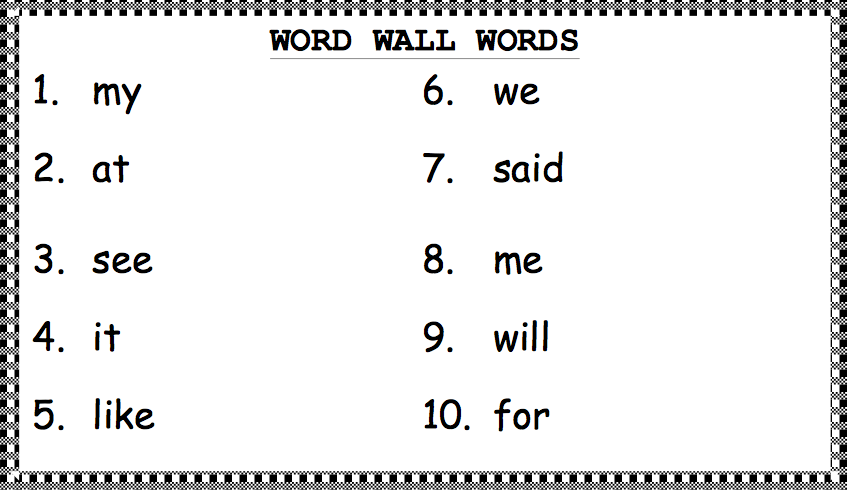
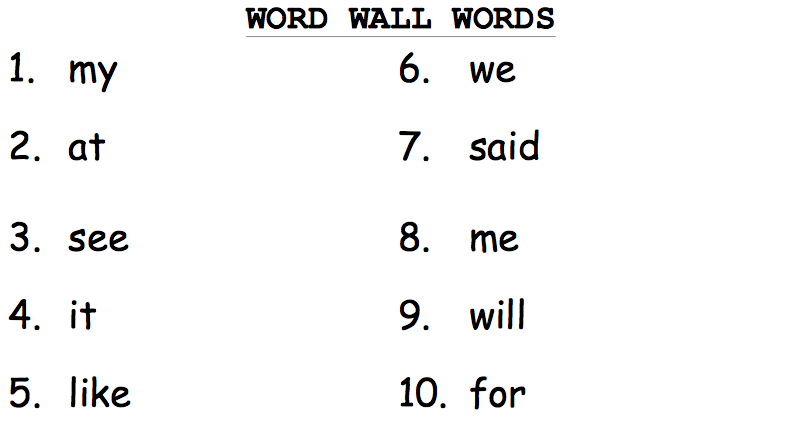
added images

diff --git a/Lucas.html b/Lucas.html
@@ -16,21 +16,17 @@
   <nav class="navbar navbar-inverse">
   <div class="container-fluid">
     <div class="navbar-header">
-      <a class="navbar-brand" href="#">WebSiteName</a>
+      <!-- <a class="navbar-brand" href="#">WebSiteName</a> -->
     </div>
     <div>
       <ul class="nav navbar-nav">
-        <li class="active"><a href="#">Home</a></li>
         <li class="dropdown">
-          <a class="dropdown-toggle" data-toggle="dropdown" href="">Grade One Gazette
-          <span class="caret"></span></a>
-          <ul class="dropdown-menu">
-            <li><a href="Newsletters/Newsletter-2.pdf">August 10 - 14</a></li>
-            <li><a href="Newsletters/Newsletter#1.pdf">August 3 - 7</a></li> 
-          </ul>
+          <a class="dropdown-toggle" data-toggle="dropdown" href="Newsletters/Newsletter-2.pdf">Grade One Gazette</a>
         </li>
         <li><a href="about.html">Class Party Information</a></li> 
-        <li><a href="http://greenville.nafcs.k12.in.us">Contact Information</a></li> 
+        <li><a href="#">Photos</a></li>
+          </ul>
+        </li> 
       </ul>
     </div>
   </div>
@@ -40,86 +36,77 @@
 <div class="row">
       <div class="col-md-4 portfolio-item">
           <a href="#">
-              <img class="img-responsive" src="http://placehold.it/700x400" alt="">
+              <img class="img-responsive" src="img/chalkboard-news.jpg" alt="">
           </a>
-          <h3>News and Events</h3>
+          <h3>September News and Events</h3>
           <p>August 11: PTO Meeting 6:30pm</p>
           <p>August 19: Picture Day</p>
           <p>August 28: All Pro Dads 6:30am</p>
           <p>August 28: Party on the Playground 6:00pm</p>
         </div>
       <div class="col-md-4 portfolio-item">
-          <a href="#">
-              <img class="img-responsive" src="http://placehold.it/700x400" alt="">
-          </a>
-          <h3>Star Students and Birthdays</h3>
-          <h4> August Star Students</h4>
+              <img class="img-responsive" src="img/chalkboard-birthday.jpg" alt="">
+          <h3>September Birthdays</h3>
           <p>Lauren Regan</p>
-          <p>Lucas Regan</p> 
-          <h4>August Birthdays</h4>
+          <p>Lucas Regan</p>
+          <h3>October Birthdays</h3>
           <p>Lauren Regan</p>
           <p>Lucas Regan</p>
       </div>
       <div class="col-md-4 portfolio-item">
-          <a href="#">
-              <img class="img-responsive" src="http://placehold.it/700x400" alt="">
-          </a>
+              <img class="img-responsive" src="img/chalkboard-specials.jpg" alt="">
           <h3>Special Classes Schedule</h3>
           <p>Monday: PE</p>
           <p>Tuesday: Library</p> 
-          <p>Wednesday: Art</p>
-          <p>Thursday: Guidence & Learning Lab</p>
+          <p>Wednesday: Learning Lab</p>
+          <p>Thursday: Art</p>
           <p>Friday: Music </p>
-          <h5>1:30-2:00pm</h5>
+          <!-- <h5>1:30-2:00pm</h5> -->
       </div>
   </div>
   <!-- End Row -->
   <!-- Start Row -->
   <div class="row">
   <div class="col-md-4 portfolio-item">
-        <img class="img-responsive" src="img/WordWall8:10.png" alt="">
-        <h3>Word Study Games</h3>
+        <img class="img-responsive" src="img/chalkboard-wordstudy.jpg" alt="">
+        <a id="wordwall" href="img/wordwall8:10.png" rel="#">
+        <h3>Word Wall Words</h3>
+      </a>
           <button type="button" class="button1"><a href="https://www.spellingcity.com"><h4>www.spellingcity.com</h4></a></button>
+        <br></br>
         </div>
-      <div class="col-md-4 portfolio-item">
-          <a href="#">
-              <img class="img-responsive" src="http://placehold.it/700x400" alt="">
-          </a>
-          <h3>Photos</h3>
-      </div>
+
+  <div class="col-md-4 portfolio-item">
+          <img class="img-responsive" src="img/chalkboard.jpg" alt="">
+          <h3>Math Fact Games</h3>
+            <br></br>
+      </div>  
        <div class="col-md-4 portfolio-item">
-          <a href="#">
-              <img class="img-responsive" src="http://placehold.it/700x400" alt="">
-          </a>
-          <h3>Lunch</h3>
-           <button type="button" class="button1"><a href="http://district.schoolnutritionandfitness.com/newalbany-floydcsc/files/New_Albany_Floyd_Elementary_2015-2016_Menu.pdf"><h4>Lunch Menu</h4></a>
+              <img class="img-responsive" src="img/chalkboard-lunch.jpg" alt="">
+          <h3>Lunch Menu</h3>
+           <button type="button" class="button1"><a href="http://district.schoolnutritionandfitness.com/newalbany-floydcsc/files/New_Albany_Floyd_Elementary_2015-2016_Menu.pdf"><h4>2015-2016 Menu</h4></a>
            </button>
-           <h5>11:10am-11:40am</h5>
+           <br></br>
       </div>
   </div>
   <!-- End Row -->
   <!-- Start Row -->
 <div class="row">
       <div class="col-md-4 portfolio-item">
-              <!-- <img class="img-responsive" src="img/contact-info.png" alt=""> -->
-              <div id="contactinfo"></div>
-          <h3>
-              <a href="http://greenville.nafcs.k12.in.us">Contact Info </a>
-          </h3>
-          <p>tkruer@nafcs.k12.in.us</p>
+             <img class="img-responsive" src="img/chalkboard-contact.jpg" alt="">
+          <br></br>
       </div>
       <div class="col-md-4 portfolio-item">
-          <img  class="img-responsive" src="img/pto.png" alt="">
-          <h3>
-            <a href="">PTO</a>
-          </h3>
-            <p>greenvillepto@gmail.com</p>
+        <a href="#">
+           <img class="img-responsive" src="img/chalkboard-photos.jpg" alt="">
+         </a>
+          <br></br>
       </div>
       <div class="col-md-4 portfolio-item">
-              <img class="img-responsive" src="http://placehold.it/700x400" alt="">
-          <h3>
-              <a href="about.html">Party Time!</a>
-          </h3>
+        <a href="about.html">
+              <img class="img-responsive" src="img/chalkboard-party.jpg" alt="">
+            </a>
+          <br></br>
       </div>
   </div>
   <!-- End Row -->
@@ -130,6 +117,8 @@
 			<p> </p>
 			<a href="#top">Back to top &raquo;</a>
 		</footer>
+    <script src="scripts.js"></script>
+    <script src="//code.jquery.com/jquery-1.11.3.min.js"></script>
   </body>
 </html>
 

diff --git a/about.html b/about.html
@@ -15,45 +15,44 @@
 <nav class="navbar navbar-inverse">
   <div class="container-fluid">
     <div class="navbar-header">
-      <a class="navbar-brand" href="#">WebSiteName</a>
     </div>
     <div>
       <ul class="nav navbar-nav">
         <li class="active"><a href="Lucas.html">Home</a></li>
         <li class="dropdown">
-          <a class="dropdown-toggle" data-toggle="dropdown" href="#">Grade One Gazette
-          <span class="caret"></span></a>
-          <ul class="dropdown-menu">
-            <li><a href="#">Page 1-1</a></li>
-            <li><a href="#">Page 1-2</a></li>
-            <li><a href="#">Page 1-3</a></li> 
-          </ul>
+          <a class="dropdown-toggle" data-toggle="dropdown" href="#">Grade One Gazette</a>
         </li>
-        <li><a href="http://greenville.nafcs.k12.in.us">Contact information</a></li> 
+        <li><a href="#">Photos</a></li>
       </ul>
     </div>
   </div>
 </nav>
 <div class="col-md-4 portfolio-item">
-<h1>Fall Party</h1>
+  <img class="img-responsive" src="img/chalkboard-fallparty.jpg" alt="">
+<!-- <h1>Fall Party</h1>
 <p>Friday, October 30</p>
-  <p>1:00-2:00pm</p>
+  <p>1:00-2:00pm</p> -->
+  <br></br>
 </div>
 <div class="col-md-4 portfolio-item">
-<h1>Winter Party</h1>
+   <img class="img-responsive" src="img/chalkboard-winterparty.jpg" alt="">
+<!-- <h1>Winter Party</h1>
 <p>Friday, December 18</p>
-  <p>1:00-2:00pm</p>
+  <p>1:00-2:00pm</p> -->
+  <br></br>
 </div>
 <div class="col-md-4 portfolio-item">
-<h1>Valentine's Day Party</h1>
+   <img class="img-responsive" src="img/chalkboard-valentine.jpg" alt="">
+<!-- <h1>Valentine's Day Party</h1>
 <p>Friday, February 12</p>
-  <p>1:00-2:00pm</p>
+  <p>1:00-2:00pm</p> -->
+  <br></br>
 </div>
 <div class="col-md-12 portfolio-item">
-	<header class="main-header">
+<div class="secondary-header">
 <h1>These are a few of Mrs. Kruer's favorite things</h1>
 <h2>This information is collected by the Greenville PTO</h2>  
-</header>
+</div>
 </div>
 <div class="col-md-4 portfolio-item">
 <h1>Restaurants</h1>

diff --git a/CSS/Main.css b/CSS/Main.css
@@ -7,6 +7,10 @@
 
 }
 
+.navbar-header {
+	background-color: #000;
+}
+
 h1 {
 	color: orange;
 	font-size: 40px;
@@ -46,7 +50,7 @@ p, li {
 }
 
 
-h3{
+h3 {
 	color: orange;
 	font-size: 30px;
 	text-align: center;
@@ -64,16 +68,37 @@ ul {
 	list-style-type: none;
 }
 
-.img-responsive {
+/*.img-responsive {
+	background-size: cover;
+	height: 250px;
+	width: 100%;
+}*/
+
+/*#wordwall {
+	background-image: url("../img/wordwall8:10.png");
 	background-size: cover;
 	height: 250px;
 	width: 100%;
 }
+*/
+/*#cheer {
+	background-image: url("../img/cheer.jpg");
+	background-size: cover;
+	height: 250px;
+	width: 100%;
+}*/
 
-#contactinfo {
+/*#contactinfo {
 	background-image: url("../img/contact-info.png");
 	background-size: cover;
 	height: 250px;
 	width: 100%;
-}
+}*/
 
+/*#pto {
+	background-image: url("../img/pto.png");
+	background-size: cover;
+	height: 250px;
+	width: 100%;
+}
+*/

diff --git a/CSS/about.css b/CSS/about.css
@@ -1,6 +1,6 @@
 
 
-.main-header {
+.main-header, .secondary-header, .navbar-header {
 	text-align: center;
 	background-color: #000;
 
